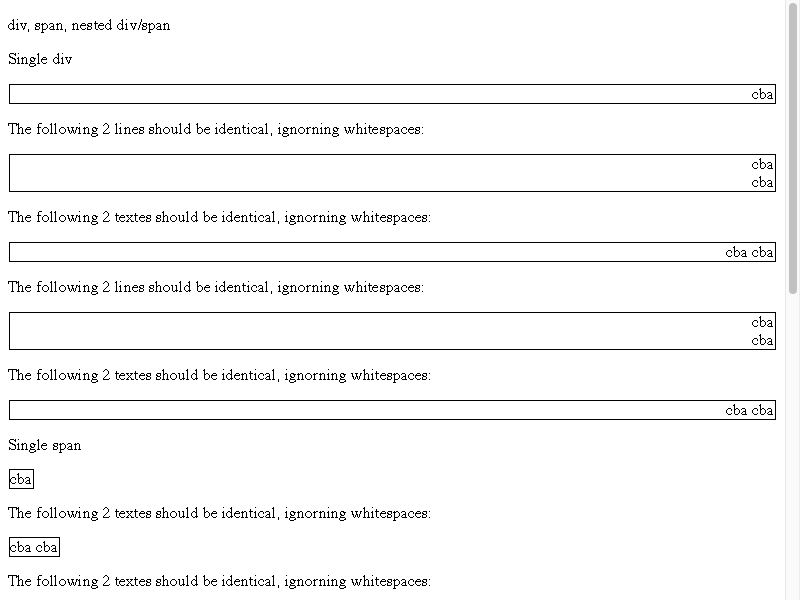
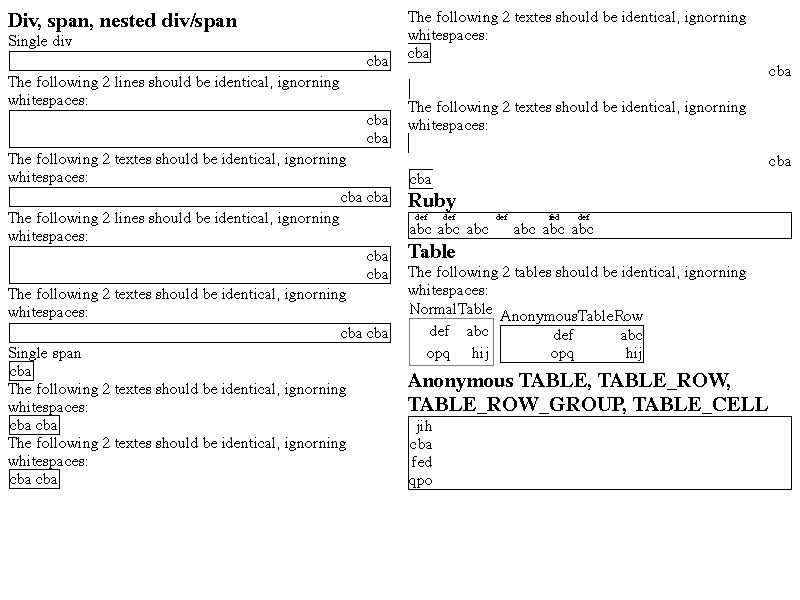
Update bidi-override-in-anonymous-block.html
It's a pixel test, but some parts of the page are outside of the
viewport. This CL updates the test so that all contents are visible in
the viewport.

This CL has no behavior changes.

Auto-Submit: Kent Tamura <tkent@chromium.org>
Commit-Queue: Koji Ishii <kojii@chromium.org>
Cr-Commit-Position: refs/heads/main@{#1295346}
NOKEYCHECK=True
GitOrigin-RevId: 355da6a4ad2a4be5b4283f94a8ea9a6d7434e41a

diff --git a/blink/web_tests/fast/css/bidi-override-in-anonymous-block.html b/blink/web_tests/fast/css/bidi-override-in-anonymous-block.html
@@ -11,11 +11,21 @@
     direction: rtl;
     unicode-bidi:bidi-override;
 }
+body {
+  columns: 2;
+}
+h1 {
+  font-size: 1.3rem;
+  margin: 0;
+}
+p {
+  margin: 0;
+}
 </style>
 </head>
 <body>
 
-<p>div, span, nested div/span</p>
+<h1>Div, span, nested div/span</h1>
 <p>Single div</p>
 <div class="decoration bidi-override">abc</div> 
 <p>The following 2 lines should be identical, ignorning whitespaces:</p>
@@ -37,7 +47,7 @@
 <p>The following 2 textes should be identical, ignorning whitespaces:</p>
 <span class="decoration bidi-override"><div>cba </div>abc</span>
 
-<p>ruby</p>
+<h1>Ruby</h1>
 <div  style="border-width:0.2ex; border-style: solid">
 <ruby class="bidi-override" style="margin:0.2ex">abc<rt>def</rt></ruby>
 <ruby class="bidi-override" style="margin:0.2ex">abc<rt class="bidi-override">def</rt></ruby>
@@ -48,10 +58,11 @@
 <ruby class="bidi-override" style="margin:0.2ex"><rb>abc<rt>def</rt></rb></ruby>
 </div>
 
+<h1>Table</h1>
 <p>The following 2 tables should be identical, ignorning whitespaces:</p>
-<table class="decoration bidi-override"><caption>NormalTable</caption><tr><td>abc</td><td>def</td></tr><tr><td>hij</td><td>opq</td></tr></table>
+<table class="decoration bidi-override" style="display:inline-table"><caption>NormalTable</caption><tr><td>abc</td><td>def</td></tr><tr><td>hij</td><td>opq</td></tr></table>
 
-<div class="decoration bidi-override" style="display:table">
+<div class="decoration bidi-override" style="display:inline-table">
     <div style="display: table-caption">AnonymousTableRow</div>
     <div style="display: table-row">
         <div style="display: table-cell">abc</div>
@@ -63,7 +74,7 @@
     </div>
 </div>
 
-<p>Anonymous TABLE, TABLE_ROW, TABLE_ROW_GROUP, TABLE_CELL</p>
+<h1>Anonymous TABLE, TABLE_ROW, TABLE_ROW_GROUP, TABLE_CELL</h1>
 <div  style="border-width:0.2ex; border-style: solid">
 <div class="bidi-override" style="display:table-row;">abc</div> 
 <div class="bidi-override" style="display:table-cell;">def</div>
